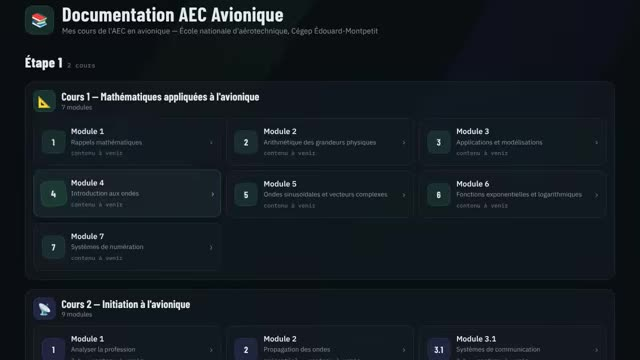
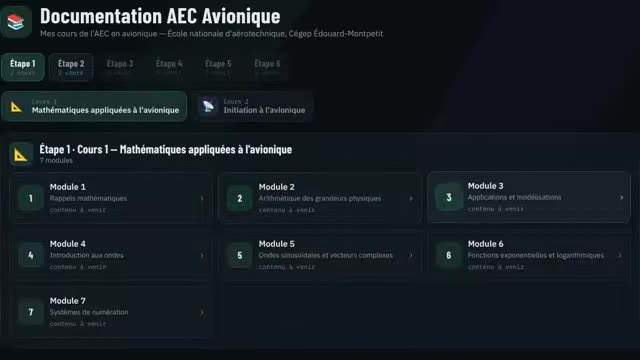
Documentation AEC Avionique : onglets par étape (6 à terme) et par cours, plus de coches de lecture, Étape 2 au squelette, documents Word/PowerPoint/Excel/Multisim en téléchargement
Claude-Session: https://claude.ai/code/session_01JwBhEaeajJJxZP6WL7ckMR

diff --git a/aec-avionique.js b/aec-avionique.js
@@ -1,6 +1,7 @@
 /* Documentation AEC Avionique : Étape → cours → modules → leçons (archive des cours de Frank, ÉNA / Cégep Édouard-Montpetit).
    Structure : api/cours.php?f=index.json (le contenu est sur le serveur, hors du dépôt) ; sinon le squelette aec-avionique.json (titres seulement).
-   Adresses : #e1/c1/m3 (un module), #e1/c1/m3/<leçon> (une leçon). Leçons en Markdown, rendues ici (marked + DOMPurify + KaTeX). */
+   Adresses : #e2 (une étape), #e2/c1 (un cours de l'étape), #e1/c1/m3 (un module), #e1/c1/m3/<leçon> (une leçon).
+   Accueil en onglets : une rangée pour les étapes (6 en tout, celles qui manquent encore sont grisées), une rangée pour les cours de l'étape. Leçons en Markdown, rendues ici (marked + DOMPurify + KaTeX). */
 (function () {
   const $ = s => document.querySelector(s);
   const esc = s => String(s ?? '').replace(/[&<>"']/g, c => ({ '&': '&amp;', '<': '&lt;', '>': '&gt;', '"': '&quot;', "'": '&#39;' }[c]));
@@ -8,10 +9,17 @@
   const vue = $('#vue');
   let S = null, avecContenu = false;
 
-  // leçons ouvertes (✓), par personne, dans ce navigateur
-  const CLE_VU = 'aec.vu.' + (sessionStorage.getItem('userId') || '');
-  const vus = new Set((() => { try { return JSON.parse(localStorage.getItem(CLE_VU) || '[]'); } catch (e) { return []; } })());
-  const marquerVu = id => { vus.add(id); try { localStorage.setItem(CLE_VU, JSON.stringify([...vus])); } catch (e) {} };
+  const NB_ETAPES = 6;   // l'AEC compte 6 étapes ; elles s'ajoutent au fil de l'archivage
+  const CLE_ONGLET = 'aec.onglet';   // dernier onglet ouvert (étape/cours), dans ce navigateur
+  // documentation de référence, pas un suivi : plus de coches « leçon lue » (demande de Frank) ; on efface l'ancienne liste
+  try { Object.keys(localStorage).filter(k => k.startsWith('aec.vu.')).forEach(k => localStorage.removeItem(k)); } catch (e) {}
+  // documents : type affiché, icône, et ouverture (PDF dans un onglet, les autres téléchargés)
+  const TYPES = { pdf: ['PDF', '📄'], doc: ['Word', '📝'], docx: ['Word', '📝'], ppt: ['PowerPoint', '📊'], pptx: ['PowerPoint', '📊'],
+    xls: ['Excel', '📈'], xlsx: ['Excel', '📈'], ms13: ['Multisim', '🔌'], ms14: ['Multisim', '🔌'], zip: ['Archive ZIP', '🗜'] };
+  const ext = f => (String(f).split('.').pop() || '').toLowerCase();
+  const typeDoc = f => TYPES[ext(f)] || [ext(f).toUpperCase(), '📎'];
+  const lienDoc = d => ext(d.f) === 'pdf' ? `href="${API(d.f)}" target="_blank" rel="noopener"` : `href="${API(d.f)}" download`;
+  const couleur = i => `--c:var(${i % 2 ? '--c-pol' : '--c-info'})`;
 
   async function charger() {
     try {
@@ -35,36 +43,42 @@
 
   function afficher() {
     const [e, c, m, l] = decodeURIComponent(location.hash.slice(1)).split('/');
-    scrollTo(0, 0);
-    if (e && c && m && l) return lecon(e, c, m, l);
-    if (e && c && m) return module(e, c, m);
-    accueil();
+    if (e && c && m && l) { scrollTo(0, 0); return lecon(e, c, m, l); }
+    if (e && c && m) { scrollTo(0, 0); return module(e, c, m); }
+    accueil(e, c);
   }
 
-  /* ---------- accueil : étapes, cours, modules ---------- */
-  function accueil() {
-    document.title = 'Outils de Frank — Documentation AEC Avionique';
+  /* ---------- accueil : onglets des étapes, onglets des cours de l'étape, puis les modules du cours ---------- */
+  function accueil(e, c) {
+    if (!e) { try { [e, c] = (localStorage.getItem(CLE_ONGLET) || '').split('/'); } catch (x) {} }
+    const et = S.etapes.find(x => x.id === e) || S.etapes[0];
+    const ic = Math.max(0, et.cours.findIndex(x => x.id === c)), co = et.cours[ic];
+    try { localStorage.setItem(CLE_ONGLET, `${et.id}/${co.id}`); } catch (x) {}
+    document.title = `Outils de Frank — Documentation AEC Avionique · ${et.titre}`;
+    const etapes = Array.from({ length: Math.max(NB_ETAPES, S.etapes.length) }, (_, k) => S.etapes[k] || null);
+    const n = co.modules.reduce((t, mo) => t + nbLecons(mo), 0);
     vue.innerHTML = `
       <div class="tete"><span class="em" aria-hidden="true">📚</span><div><h1>Documentation AEC Avionique</h1>
         <p>Mes cours de l'AEC en avionique — École nationale d'aérotechnique, Cégep Édouard-Montpetit</p></div></div>
-      ${S.etapes.map(et => `
-        <section class="etape">
-          <h2>${esc(et.titre)} <small>${et.cours.length} cours</small></h2>
-          ${et.cours.map((co, i) => `
-            <section class="cours-bloc" style="--c:var(${i % 2 ? '--c-pol' : '--c-info'})">
-              <header><span class="em" aria-hidden="true">${esc(co.em || '📘')}</span>
-                <div><h3>Cours ${i + 1} — ${esc(co.titre)}</h3>
-                <small>${co.modules.length} modules${avecContenu ? ' · ' + co.modules.reduce((n, mo) => n + nbLecons(mo), 0) + ' leçons' : ''}</small></div></header>
-              <div class="cartes">${co.modules.map(mo => {
-                const n = nbLecons(mo), lus = (mo.lecons || []).filter(x => vus.has(`${et.id}/${co.id}/${mo.id}/${x.id}`)).length;
-                return `<a class="carte${n && lus === n ? ' vu' : ''}" href="#${et.id}/${co.id}/${mo.id}">
-                  ${pastille(mo)}
-                  <span><b>${mo.num ? 'Module ' + esc(mo.num) : esc(mo.titre)}</b><small>${mo.num ? esc(mo.titre) : 'Documents du cours'}</small>
-                    <span class="compte">${duree(mo)}${n ? `${n} leçon${n > 1 ? 's' : ''}${lus ? ` · ${lus} lue${lus > 1 ? 's' : ''}` : ''}` : (avecContenu ? 'aucune leçon' : 'contenu à venir')}</span></span>
-                  <span class="fl" aria-hidden="true">›</span></a>`; }).join('')}</div>
-            </section>`).join('')}
-        </section>`).join('')}
-      <section class="etape avenir"><h2>Étapes suivantes</h2><p>Elles s'ajouteront ici au fil de l'archivage.</p></section>`;
+      <nav class="onglets etapes" aria-label="Étapes">${etapes.map((x, k) => x
+        ? `<a class="onglet${x === et ? ' actif' : ''}" href="#${x.id}"${x === et ? ' aria-current="page"' : ''}>${esc(x.titre)}<small>${x.cours.length} cours</small></a>`
+        : `<span class="onglet avenir" title="Pas encore archivée">Étape ${k + 1}<small>à venir</small></span>`).join('')}</nav>
+      <nav class="onglets cours" aria-label="Cours de l'${esc(et.titre.toLowerCase())}">${et.cours.map((x, i) =>
+        `<a class="onglet-cours${x === co ? ' actif' : ''}" href="#${et.id}/${x.id}" style="${couleur(i)}"${x === co ? ' aria-current="page"' : ''}>
+          <span class="em" aria-hidden="true">${esc(x.em || '📘')}</span><span><small>Cours ${i + 1}</small><b>${esc(x.titre)}</b></span></a>`).join('')}</nav>
+      <section class="cours-bloc" style="${couleur(ic)}">
+        <header><span class="em" aria-hidden="true">${esc(co.em || '📘')}</span>
+          <div><h3>${esc(et.titre)} · Cours ${ic + 1} — ${esc(co.titre)}</h3>
+          <small>${co.modules.length} modules${avecContenu ? ` · ${n} leçon${n > 1 ? 's' : ''}` : ''}</small></div></header>
+        <div class="cartes">${co.modules.map(mo => { const k = nbLecons(mo), d = (mo.docs || []).length;
+          return `<a class="carte" href="#${et.id}/${co.id}/${mo.id}">
+            ${pastille(mo)}
+            <span><b>${mo.num ? 'Module ' + esc(mo.num) : esc(mo.titre)}</b><small>${mo.num ? esc(mo.titre) : 'Documents du cours'}</small>
+              <span class="compte">${duree(mo)}${k ? `${k} leçon${k > 1 ? 's' : ''}` : ''}${k && d ? ' · ' : ''}${d ? `${d} document${d > 1 ? 's' : ''}` : ''}${!k && !d ? (avecContenu ? 'vide' : 'contenu à venir') : ''}</span></span>
+            <span class="fl" aria-hidden="true">›</span></a>`; }).join('')}</div>
+      </section>`;
+    // sur téléphone, les onglets défilent : l'onglet ouvert reste en vue
+    vue.querySelectorAll('.onglet.actif, .onglet-cours.actif').forEach(a => a.scrollIntoView({ block: 'nearest', inline: 'center' }));
   }
 
   /* ---------- un module : la liste de ses leçons et documents ---------- */
@@ -74,17 +88,17 @@
     const ic = et.cours.indexOf(co);
     document.title = `Outils de Frank — ${mo.num ? 'Module ' + mo.num : mo.titre} · ${co.titre}`;
     const lec = mo.lecons || [], docs = mo.docs || [];
-    vue.innerHTML = fil([['Documentation AEC', '#'], [et.titre, '#'], [`Cours ${ic + 1}`, '#'], [mo.num ? 'Module ' + mo.num : mo.titre]]) + `
+    vue.innerHTML = fil([['Documentation AEC', `#${e}`], [et.titre, `#${e}`], [`Cours ${ic + 1}`, `#${e}/${c}`], [mo.num ? 'Module ' + mo.num : mo.titre]]) + `
       <div class="tete" style="--c:var(${ic % 2 ? '--c-pol' : '--c-info'})"><span class="em" aria-hidden="true">${esc(co.em || '📘')}</span>
         <div><h1>${mo.num ? 'Module ' + esc(mo.num) + ' — ' : ''}${esc(mo.titre)}</h1><p>Cours ${ic + 1} — ${esc(co.titre)}${mo.duree ? ' · ' + esc(mo.duree) : ''}</p></div></div>
       ${lec.length ? `<section class="groupe" style="--c:var(${ic % 2 ? '--c-pol' : '--c-info'})"><header><h2>Leçons</h2><span class="nb">${lec.length}</span></header>
-        <div class="cartes">${lec.map((x, k) => `<a class="carte${vus.has(`${e}/${c}/${m}/${x.id}`) ? ' vu' : ''}" href="#${e}/${c}/${m}/${encodeURIComponent(x.id)}">
+        <div class="cartes">${lec.map((x, k) => `<a class="carte" href="#${e}/${c}/${m}/${encodeURIComponent(x.id)}">
           <span class="num" aria-hidden="true">${k + 1}</span><span><b>${esc(x.titre)}</b>${x.desc ? `<small>${esc(x.desc)}</small>` : ''}</span>
           <span class="fl" aria-hidden="true">›</span></a>`).join('')}</div></section>`
         : `<p class="vide-mod">${avecContenu ? 'Aucune leçon dans ce module.' : 'Les leçons de ce module arrivent bientôt : le contenu des cours est en train d’être transféré sur le serveur.'}</p>`}
       ${docs.length ? `<section class="groupe"><header><h2>Documents</h2><span class="nb">${docs.length}</span></header>
-        <div class="cartes">${docs.map(d => `<a class="carte" href="${API(d.f)}" target="_blank" rel="noopener"><span class="num" aria-hidden="true">📄</span>
-          <span><b>${esc(d.titre)}</b><small>PDF</small></span><span class="fl" aria-hidden="true">↗</span></a>`).join('')}</div></section>` : ''}`;
+        <div class="cartes">${docs.map(d => { const [t, ic2] = typeDoc(d.f); return `<a class="carte" ${lienDoc(d)}><span class="num" aria-hidden="true">${ic2}</span>
+          <span><b>${esc(d.titre)}</b><small>${esc(t)}${ext(d.f) === 'pdf' ? '' : ' · téléchargement'}</small></span><span class="fl" aria-hidden="true">${ext(d.f) === 'pdf' ? '↗' : '↓'}</span></a>`; }).join('')}</div></section>` : ''}`;
   }
 
   /* ---------- une leçon ---------- */
@@ -95,9 +109,9 @@
     const x = lec[k], ic = et.cours.indexOf(co), base = `#${e}/${c}/${m}/`;
     document.title = `Outils de Frank — ${x.titre}`;
     const sommaire = `<h4>${mo.num ? 'Module ' + esc(mo.num) : esc(mo.titre)}</h4>` + lec.map((y, j) =>
-      `<a href="${base}${encodeURIComponent(y.id)}" class="${j === k ? 'ici' : ''}${vus.has(`${e}/${c}/${m}/${y.id}`) ? ' vu' : ''}"><span class="n">${j + 1}</span><span>${esc(y.titre)}</span></a>`).join('')
-      + ((mo.docs || []).length ? `<div class="docs">${mo.docs.map(d => `<a href="${API(d.f)}" target="_blank" rel="noopener"><span class="n">📄</span><span>${esc(d.titre)}</span></a>`).join('')}</div>` : '');
-    vue.innerHTML = fil([['Documentation AEC', '#'], [`Cours ${ic + 1}`, '#'], [mo.num ? 'Module ' + mo.num : mo.titre, `#${e}/${c}/${m}`], [x.titre]]) + `
+      `<a href="${base}${encodeURIComponent(y.id)}" class="${j === k ? 'ici' : ''}"><span class="n">${j + 1}</span><span>${esc(y.titre)}</span></a>`).join('')
+      + ((mo.docs || []).length ? `<div class="docs">${mo.docs.map(d => `<a ${lienDoc(d)}><span class="n">${typeDoc(d.f)[1]}</span><span>${esc(d.titre)}</span></a>`).join('')}</div>` : '');
+    vue.innerHTML = fil([[et.titre, `#${e}`], [`Cours ${ic + 1}`, `#${e}/${c}`], [mo.num ? 'Module ' + mo.num : mo.titre, `#${e}/${c}/${m}`], [x.titre]]) + `
       <div class="lecon-zone" style="--c:var(${ic % 2 ? '--c-pol' : '--c-info'})">
         <aside class="sommaire">${sommaire}</aside>
         <div><details class="sommaire-tel"><summary>Leçons du module (${k + 1} / ${lec.length})</summary><div class="sommaire">${sommaire}</div></details>
@@ -110,7 +124,6 @@
       const r = await fetch(API(x.f), { credentials: 'same-origin' });
       if (!r.ok) throw new Error(await r.text());
       art.innerHTML = rendre(await r.text(), x.f);
-      marquerVu(`${e}/${c}/${m}/${x.id}`);
     } catch (err) { art.innerHTML = `<p class="vide-mod">Leçon introuvable : ${esc(err.message || err)}</p>`; }
   }
 
@@ -171,6 +184,7 @@
         a.parentElement.replaceWith(b);
       } else {
         if (/\.pdf(\?|#|$)/i.test(h)) a.classList.add('pdf');
+        else if (/\.(docx?|pptx?|xlsx?|ms1[34]|zip)(\?|#|$)/i.test(h)) { a.classList.add('fichier'); a.setAttribute('download', ''); }
         if (!h.startsWith('#')) { a.target = '_blank'; a.rel = 'noopener'; }
       }
     });

diff --git a/aec-avionique.html b/aec-avionique.html
@@ -27,6 +27,26 @@
 .fil a:hover{color:var(--text);border-bottom-color:var(--line2)}
 .fil .sep{color:var(--faint)}
 .fil b{color:var(--text);font-weight:600}
+/* ---- onglets : les étapes (6 à terme), puis les cours de l'étape ---- */
+.onglets{display:flex;gap:8px;overflow-x:auto;scrollbar-width:none;-webkit-overflow-scrolling:touch;padding:3px 2px;margin:22px 0 0;
+  -webkit-mask:linear-gradient(90deg,#000 calc(100% - 24px),transparent);mask:linear-gradient(90deg,#000 calc(100% - 24px),transparent)}
+.onglets::-webkit-scrollbar{display:none}
+.onglet{flex:none;display:flex;flex-direction:column;align-items:flex-start;gap:1px;padding:8px 16px;border-radius:12px;border:1px solid var(--line2);
+  background:var(--panel);font:700 17px/1.1 var(--f-display);letter-spacing:.02em;color:var(--muted);transition:border-color .15s,background .15s,color .15s}
+.onglet small{font:500 11px var(--f-mono);letter-spacing:0;color:var(--faint)}
+a.onglet:hover{color:var(--text);border-color:color-mix(in srgb,var(--c-info) 55%,var(--line2))}
+.onglet.actif{color:var(--text);background:color-mix(in srgb,var(--c-info) 24%,var(--panel2));border-color:color-mix(in srgb,var(--c-info) 70%,var(--line2))}
+.onglet.avenir{opacity:.45;cursor:default;border-style:dashed}
+.onglets.cours{margin-top:12px;gap:10px}
+.onglet-cours{flex:none;display:flex;align-items:center;gap:10px;max-width:min(420px,82vw);padding:9px 14px 9px 10px;border-radius:14px;
+  border:1px solid var(--line);background:color-mix(in srgb,var(--panel) 80%,transparent);color:var(--muted);transition:border-color .15s,background .15s,color .15s}
+.onglet-cours .em{width:36px;height:36px;flex:none;display:grid;place-items:center;font-size:18px;border-radius:10px;
+  background:color-mix(in srgb,var(--c) 16%,var(--panel2));border:1px solid color-mix(in srgb,var(--c) 30%,var(--line))}
+.onglet-cours small{display:block;font:500 11px var(--f-mono);color:var(--faint)}
+.onglet-cours b{display:block;font-weight:600;font-size:14.5px;line-height:1.25;color:inherit;white-space:nowrap;overflow:hidden;text-overflow:ellipsis}
+.onglet-cours>span:last-child{min-width:0}
+.onglet-cours:hover{color:var(--text);border-color:color-mix(in srgb,var(--c) 55%,var(--line))}
+.onglet-cours.actif{color:var(--text);background:color-mix(in srgb,var(--c) 18%,var(--panel2));border-color:color-mix(in srgb,var(--c) 65%,var(--line))}
 .etape{margin-top:30px}
 .etape>h2{display:flex;align-items:baseline;gap:10px;margin:0 0 2px;font-family:var(--f-display);font-weight:800;font-size:28px;letter-spacing:.01em}
 .etape>h2 small{font:500 13px var(--f-mono);color:var(--faint)}
@@ -47,7 +67,6 @@
 .cours-bloc .carte .num.long{white-space:nowrap}
 article.md a.ouvrir{display:inline-block;margin:-4px 0 10px;font-size:13.5px}
 .carte .compte{font:500 11.5px var(--f-mono);color:var(--faint)}
-.carte.vu .num::after{content:"✓";position:absolute;margin:-30px 0 0 34px;font-size:12px;color:var(--c-info)}
 .vide-mod{margin:18px 0;padding:22px;border:1px dashed var(--line2);border-radius:14px;color:var(--muted);text-align:center}
 /* ---- leçon : liste du module à gauche, texte à droite ---- */
 .lecon-zone{display:grid;grid-template-columns:270px minmax(0,1fr);gap:26px;margin-top:18px;align-items:start}
@@ -58,7 +77,6 @@ article.md a.ouvrir{display:inline-block;margin:-4px 0 10px;font-size:13.5px}
 .sommaire a:hover{background:var(--panel2);color:var(--text)}
 .sommaire a.ici{background:color-mix(in srgb,var(--c) 18%,var(--panel2));color:var(--text);font-weight:600}
 .sommaire a .n{flex:none;min-width:22px;font:500 12px/1.6 var(--f-mono);color:var(--faint)}
-.sommaire a.vu .n::after{content:" ✓";color:var(--c-info)}
 .sommaire .docs{margin-top:10px;padding-top:8px;border-top:1px solid var(--line)}
 details.sommaire-tel{display:none}
 article.md{min-width:0;max-width:860px;font-size:16px;line-height:1.7}
@@ -80,6 +98,7 @@ article.md th{background:var(--panel2)}
 article.md hr{border:none;border-top:1px solid var(--line);margin:26px 0}
 article.md .katex-display{overflow-x:auto;overflow-y:hidden;padding:4px 0}
 article.md a.pdf::before{content:"📄 ";text-decoration:none;display:inline-block}
+article.md a.fichier::before{content:"📎 ";text-decoration:none;display:inline-block}
 .yt{position:relative;display:block;width:100%;max-width:720px;aspect-ratio:16/9;margin:12px 0;border-radius:12px;overflow:hidden;
   background:#000 center/cover no-repeat;border:1px solid var(--line);cursor:pointer;text-decoration:none!important}
 .yt::before{content:"";position:absolute;inset:0;background:linear-gradient(180deg,transparent 55%,rgba(0,0,0,.65))}
@@ -96,6 +115,11 @@ article.md a.pdf::before{content:"📄 ";text-decoration:none;display:inline-blo
 .source{margin-top:6px;font-size:12.5px;color:var(--faint)}
 .source a{color:var(--faint)}
 .chargement{margin:40px 0;color:var(--muted);text-align:center}
+@media (max-width:640px){   /* téléphone : les cours de l'étape empilés (2 ou 3), pas en défilement de côté */
+  .onglets.cours{flex-direction:column;overflow:visible;-webkit-mask:none;mask:none;gap:8px}
+  .onglet-cours{max-width:none}
+  .onglet-cours b{white-space:normal}
+}
 @media (max-width:860px){
   .lecon-zone{grid-template-columns:1fr}
   .sommaire{display:none}

diff --git a/api/cours.php b/api/cours.php
@@ -8,6 +8,7 @@
  *   GET cours.php?f=index.json                          → la structure complète (étapes, cours, modules, leçons)
  *   GET cours.php?f=etape1/cours1/m1/01-lecon.md        → une leçon
  *   GET cours.php?f=etape1/cours1/m1/fichiers/fig1.png  → une image, un PDF, une vidéo (lecture partielle « Range » pour les vidéos)
+ *   Word, PowerPoint, Excel, Multisim (.ms13/.ms14) et .zip : envoyés en téléchargement (Content-Disposition: attachment)
  */
 define('_FVEILLEUX', 1);
 require_once __DIR__ . '/session.php';
@@ -17,7 +18,13 @@ const TYPES = [
   'json' => 'application/json; charset=utf-8', 'md' => 'text/markdown; charset=utf-8', 'txt' => 'text/plain; charset=utf-8',
   'png' => 'image/png', 'jpg' => 'image/jpeg', 'jpeg' => 'image/jpeg', 'gif' => 'image/gif', 'webp' => 'image/webp', 'svg' => 'image/svg+xml',
   'pdf' => 'application/pdf', 'mp4' => 'video/mp4', 'webm' => 'video/webm', 'mp3' => 'audio/mpeg',
+  // documents des cours, servis en téléchargement (Word, PowerPoint, Excel, Multisim, archives)
+  'doc' => 'application/msword', 'docx' => 'application/vnd.openxmlformats-officedocument.wordprocessingml.document',
+  'ppt' => 'application/vnd.ms-powerpoint', 'pptx' => 'application/vnd.openxmlformats-officedocument.presentationml.presentation',
+  'xls' => 'application/vnd.ms-excel', 'xlsx' => 'application/vnd.openxmlformats-officedocument.spreadsheetml.sheet',
+  'ms13' => 'application/octet-stream', 'ms14' => 'application/octet-stream', 'zip' => 'application/zip',
 ];
+const TELECHARGES = ['doc', 'docx', 'ppt', 'pptx', 'xls', 'xlsx', 'ms13', 'ms14', 'zip'];
 
 function refuse(int $code, string $msg): never {
   http_response_code($code);
@@ -74,6 +81,7 @@ header('X-Robots-Tag: noindex, nofollow');
 header('Cache-Control: private, max-age=' . ($ext === 'json' || $ext === 'md' ? 300 : 86400));
 if ($ext === 'svg') header("Content-Security-Policy: default-src 'none'; style-src 'unsafe-inline'; sandbox");
 if ($ext === 'pdf') header("Content-Disposition: inline; filename*=UTF-8''" . rawurlencode(basename($path)));
+if (in_array($ext, TELECHARGES, true)) header("Content-Disposition: attachment; filename*=UTF-8''" . rawurlencode(basename($path)));
 header('Accept-Ranges: bytes');
 
 // lecture partielle (Range) : le lecteur vidéo avance sans tout télécharger

diff --git a/docs/autres-pages.md b/docs/autres-pages.md
@@ -25,11 +25,12 @@ Pages plus simples, chacune avec son HTML, son JS et sa permission. Le schéma c
 
 ## Documentation AEC Avionique (`aec-avionique.html`, `aec-avionique.js`, permission `aec-avionique`)
 
-Archive des cours de l'AEC en avionique de Frank (ÉNA, Cégep Édouard-Montpetit), demandée le 6 novembre 2026 ; Étape 1 en place sur le serveur le 6 novembre 2026 (`/home/u715089735/domains/fveilleux.com/cours-avionique/`, 676 fichiers, 1,1 Go) ; la session Claude Code de l'ordinateur de Frank prépare le contenu (dossier `~/Cours_avionique`, Markdown).
-- Structure : Étape → cours → modules → leçons (et documents PDF par module). Étape 1 : cours 1 (7 modules) et cours 2 (9 modules, dont « 3.1 » et « 3.2 à 3.5 » comme dans Brio, et Documentation). Adresses : `#e1/c1/m5` (module), `#e1/c1/m5/<leçon>` (leçon).
+Archive des cours de l'AEC en avionique de Frank (ÉNA, Cégep Édouard-Montpetit), demandée le 6 novembre 2026 ; Étapes 1 et 2 en place sur le serveur le 6 novembre 2026 (`/home/u715089735/domains/fveilleux.com/cours-avionique/`, 676 fichiers, 1,1 Go) ; la session Claude Code de l'ordinateur de Frank prépare le contenu (dossier `~/Cours_avionique`, Markdown).
+- Accueil en onglets (demande de Frank) : une rangée pour les étapes (6 à terme ; celles qui ne sont pas encore archivées sont grisées, « à venir »), une rangée pour les cours de l'étape (empilés sur téléphone), puis les modules du cours choisi. Le dernier onglet ouvert est retenu dans le navigateur (`localStorage.aec.onglet`). Adresses `#e2` (étape) et `#e2/c1` (cours).
+- Structure : Étape → cours → modules → leçons (et documents par module : PDF ouverts dans un onglet ; Word, PowerPoint, Excel, Multisim `.ms13`/`.ms14` et `.zip` téléchargés). Étape 1 : cours 1 (7 modules) et cours 2 (9 modules, dont « 3.1 » et « 3.2 à 3.5 » comme dans Brio, et Documentation). Adresses : `#e1/c1/m5` (module), `#e1/c1/m5/<leçon>` (leçon).
 - **Le contenu n'est pas dans le dépôt** (dépôt public, contenu des enseignants, environ 1 Go avec les vidéos) : il est sur le serveur, dans `cours-avionique/`, **hors de `public_html`** (même niveau que `manuels/` et `config/`), et servi par `api/cours.php?f=<chemin>` aux personnes connectées qui ont la permission (jamais au compte invité), comme `api/manuel.php`. Images, PDF et vidéos MP4 (lecture partielle « Range », pour avancer dans une vidéo sans tout télécharger).
 - `api/cours.php?f=index.json` donne la structure complète ; sans lui (contenu pas encore transféré), la page montre le squelette `aec-avionique.json` (étapes, cours, modules, sans leçons). Format de `index.json` : celui du squelette (`duree` facultative par module : « 3 h », « présentiel »), avec dans chaque module `"lecons": [{ "id": "01", "titre": "…", "f": "etape1/cours1/m5/01-….md" }]` et au besoin `"docs": [{ "titre": "…", "f": "….pdf" }]`. Noms de fichiers : lettres (accents permis), chiffres, espaces et `_ . , ( ) ' & + -`.
-- Leçons en Markdown rendues dans la page : `marked` + `DOMPurify` (nettoyage) + `KaTeX` (formules `$…$`, `$$…$$`, `\(…\)`, `\[…\]`), par CDN avec SRI. Liens relatifs (`fichiers/…`) réécrits vers `api/cours.php` ; lien seul vers un `.mp4` → lecteur vidéo ; balises `<video controls src="fichiers/videos/….mp4">` du Markdown gardées (chemin réécrit), et le lien « Ouvrir la vidéo » qui les suit reste un simple lien (nouvel onglet) au lieu d'un 2e lecteur ; lien seul vers YouTube → vignette, le lecteur (youtube-nocookie) ne se charge qu'au clic ; en-tête « > Source : … » (ou « Source : … », lien Markdown permis) → petite mention en bas ; « > Module : … » en tête → retirée (le fil d'Ariane le dit déjà). Leçons ouvertes cochées (✓) dans le navigateur (`localStorage`).
+- Leçons en Markdown rendues dans la page : `marked` + `DOMPurify` (nettoyage) + `KaTeX` (formules `$…$`, `$$…$$`, `\(…\)`, `\[…\]`), par CDN avec SRI. Liens relatifs (`fichiers/…`) réécrits vers `api/cours.php` ; lien seul vers un `.mp4` → lecteur vidéo ; balises `<video controls src="fichiers/videos/….mp4">` du Markdown gardées (chemin réécrit), et le lien « Ouvrir la vidéo » qui les suit reste un simple lien (nouvel onglet) au lieu d'un 2e lecteur ; lien seul vers YouTube → vignette, le lecteur (youtube-nocookie) ne se charge qu'au clic ; en-tête « > Source : … » (ou « Source : … », lien Markdown permis) → petite mention en bas ; « > Module : … » en tête → retirée (le fil d'Ariane le dit déjà). Pas de coches « leçon lue » : c'est de la documentation de référence, pas un suivi (demande de Frank, 6 novembre 2026).
 - Ajouter une étape ou un cours : l'ajouter au squelette `aec-avionique.json` et à `index.json` sur le serveur.
 
 ## Moteurs (permission `moteurs` et sous-permissions)
